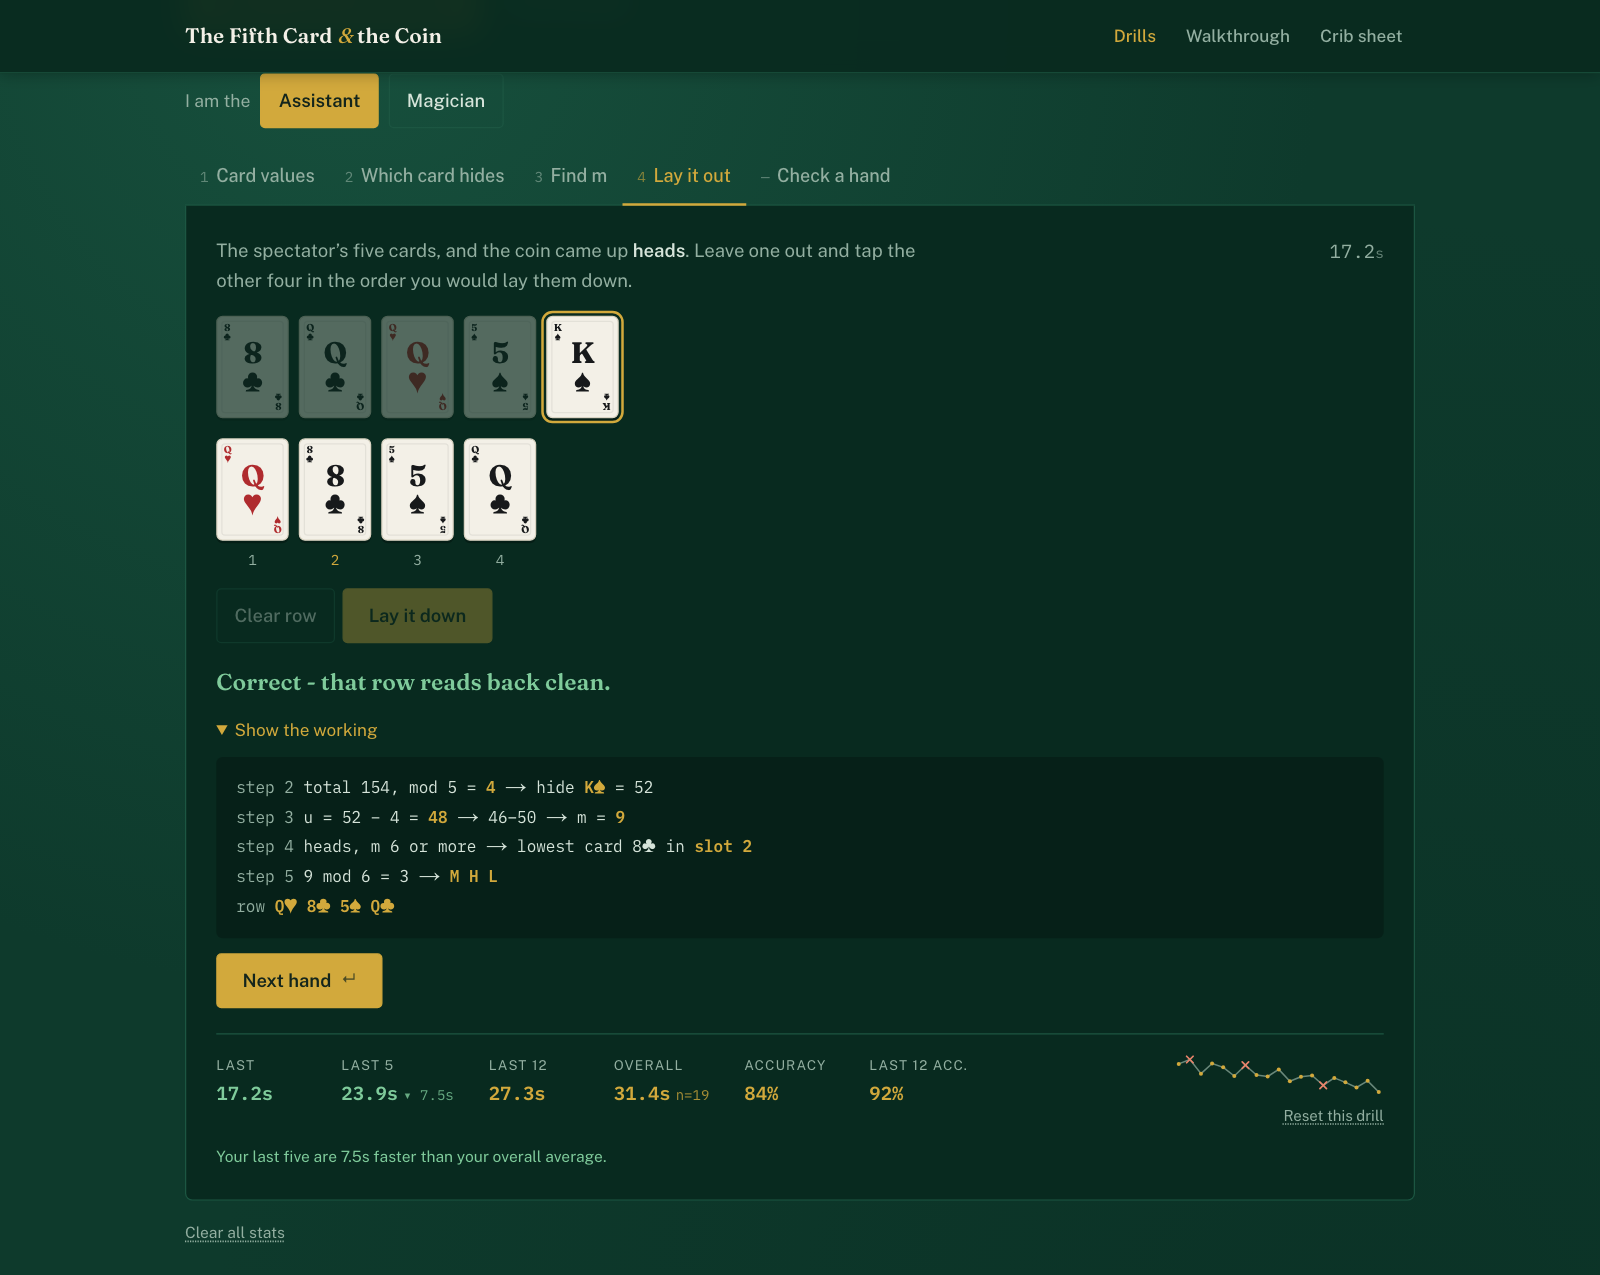
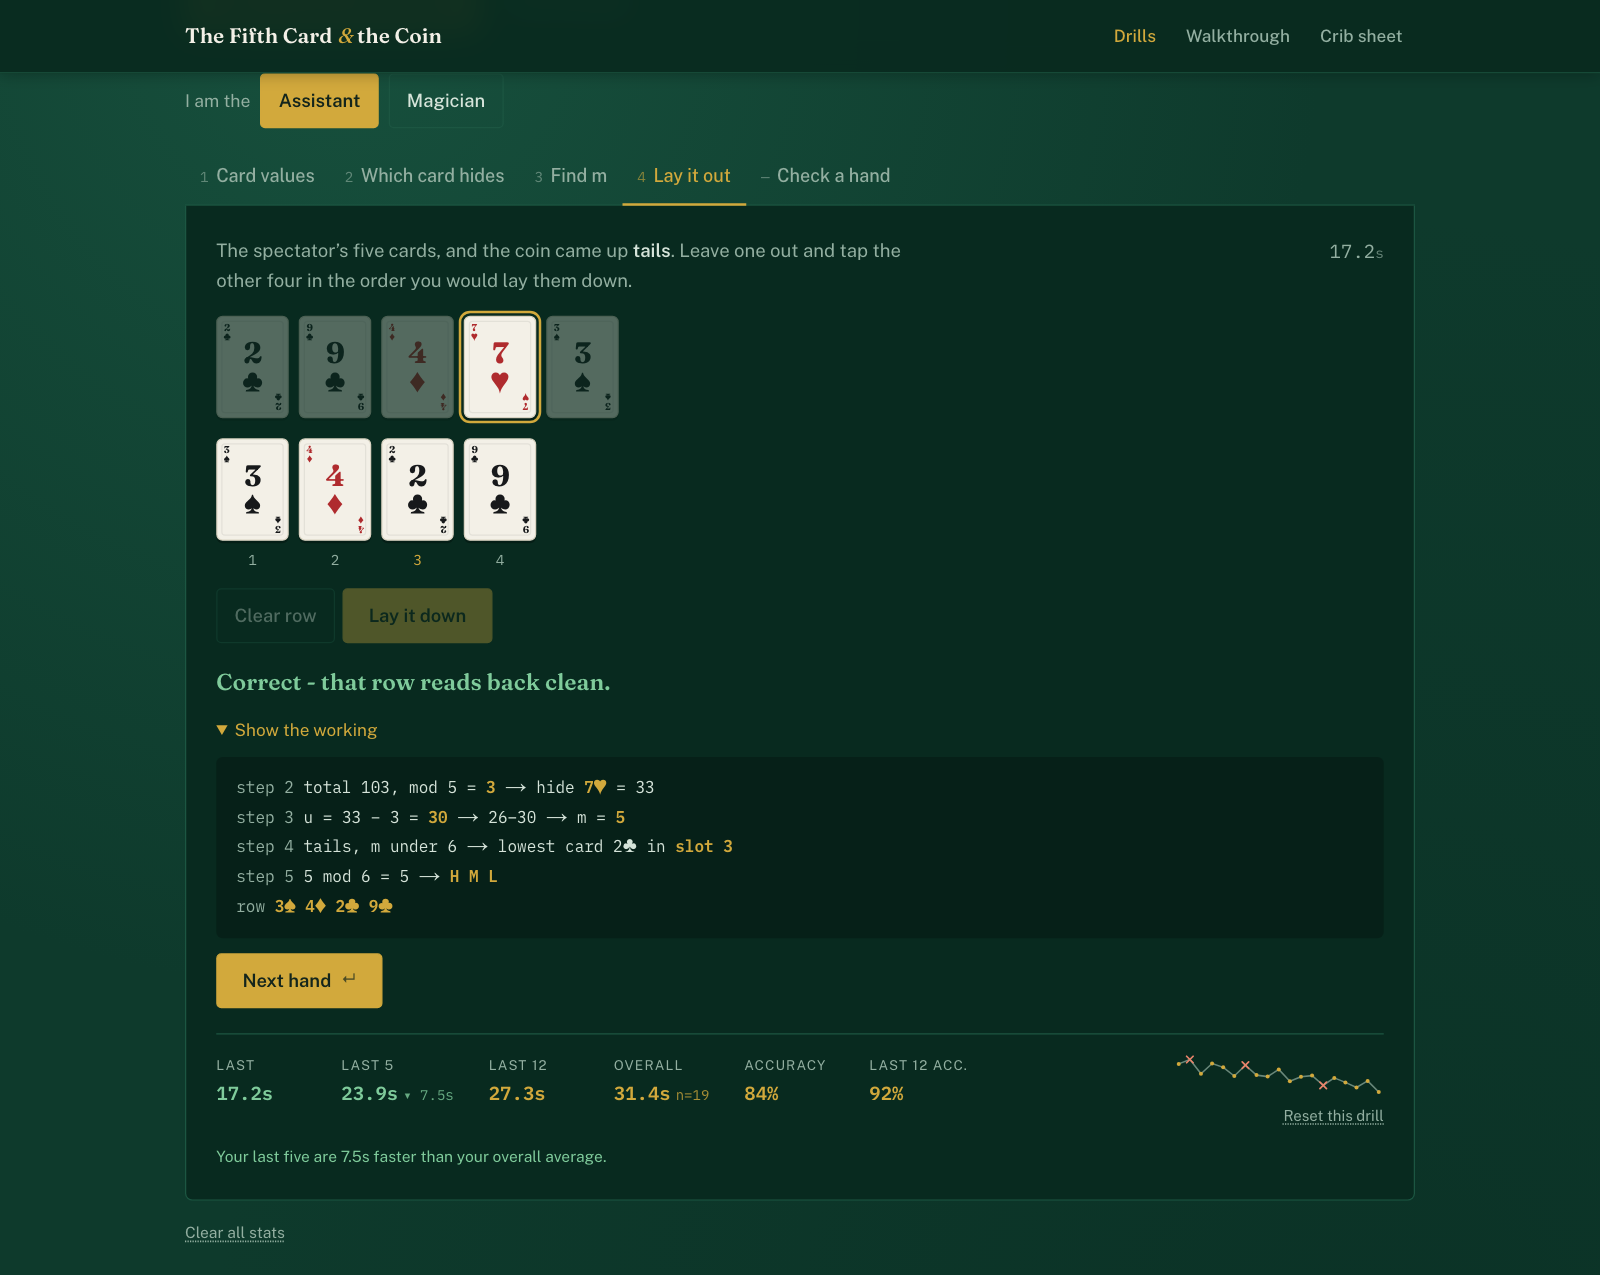
Stop one Enter both submitting a drill and advancing to the next hand
Enter reached the window handler and then, as the default action, clicked
whichever button had focus. Since submitting moves focus to "next hand", a
single press answered the question and dealt a new one, so the verdict and the
working were never seen. Key handlers now report whether they acted, and
useKeys suppresses the default when they did.

diff --git a/components/drills/useKeys.ts b/components/drills/useKeys.ts
@@ -5,8 +5,13 @@ import { useEffect, useRef } from 'react';
 /**
  * Number keys answer, Enter advances. Ignored while the user is typing into a
  * field, so the solver's card input still behaves normally.
+ *
+ * The handler returns true when it acted on the key, and the default action is
+ * then suppressed. That matters for Enter: without it, the same keypress both
+ * runs the handler and clicks whichever button has focus, which would submit
+ * and advance in one go and the working would never be seen.
  */
-export function useKeys(handler: (key: string) => void) {
+export function useKeys(handler: (key: string) => boolean | void) {
   const ref = useRef(handler);
 
   useEffect(() => {
@@ -18,7 +23,7 @@ export function useKeys(handler: (key: string) => void) {
       const t = e.target as HTMLElement | null;
       if (t && (t.tagName === 'INPUT' || t.tagName === 'TEXTAREA' || t.isContentEditable)) return;
       if (e.metaKey || e.ctrlKey || e.altKey) return;
-      ref.current(e.key);
+      if (ref.current(e.key) === true) e.preventDefault();
     }
     window.addEventListener('keydown', onKey);
     return () => window.removeEventListener('keydown', onKey);

diff --git a/components/drills/LayDrill.tsx b/components/drills/LayDrill.tsx
@@ -39,12 +39,25 @@ export function LayDrill() {
   }
 
   useKeys((key) => {
-    if (closed && key === 'Enter') next();
-    else if (!closed && key === 'Enter' && full) submit();
-    else if (!closed && /^[1-5]$/.test(key)) {
+    if (closed) {
+      if (key !== 'Enter') return false;
+      next();
+      return true;
+    }
+    if (key === 'Enter' && full) {
+      submit();
+      return true;
+    }
+    if (/^[1-5]$/.test(key)) {
       const c = hand[Number(key) - 1];
       if (c != null && !placed.includes(c) && placed.length < 4) setPlaced([...placed, c]);
-    } else if (!closed && (key === 'Backspace' || key === 'Delete')) setPlaced(placed.slice(0, -1));
+      return true;
+    }
+    if (key === 'Backspace' || key === 'Delete') {
+      setPlaced(placed.slice(0, -1));
+      return true;
+    }
+    return false;
   });
 
   return (

diff --git a/components/drills/ReadRowDrill.tsx b/components/drills/ReadRowDrill.tsx
@@ -39,12 +39,28 @@ export function ReadRowDrill() {
   }
 
   useKeys((key) => {
-    if (closed && key === 'Enter') return next();
-    if (closed) return;
-    if (/^[0-9]$/.test(key)) setM(Number(key));
-    else if (key === 'h' || key === 'H') setCoin('H');
-    else if (key === 't' || key === 'T') setCoin('T');
-    else if (key === 'Enter' && ready) submit();
+    if (closed) {
+      if (key !== 'Enter') return false;
+      next();
+      return true;
+    }
+    if (/^[0-9]$/.test(key)) {
+      setM(Number(key));
+      return true;
+    }
+    if (key === 'h' || key === 'H') {
+      setCoin('H');
+      return true;
+    }
+    if (key === 't' || key === 'T') {
+      setCoin('T');
+      return true;
+    }
+    if (key === 'Enter' && ready) {
+      submit();
+      return true;
+    }
+    return false;
   });
 
   return (

diff --git a/components/drills/FindCardDrill.tsx b/components/drills/FindCardDrill.tsx
@@ -35,8 +35,16 @@ export function FindCardDrill() {
   }
 
   useKeys((key) => {
-    if (closed && key === 'Enter') next();
-    else if (!closed && key === 'Enter' && value !== null) submit();
+    if (key !== 'Enter') return false;
+    if (closed) {
+      next();
+      return true;
+    }
+    if (value !== null) {
+      submit();
+      return true;
+    }
+    return false;
   });
 
   const cf = cardFrom(e.shown, e.m);

diff --git a/components/drills/ValuesDrill.tsx b/components/drills/ValuesDrill.tsx
@@ -29,8 +29,15 @@ export function ValuesDrill({ role }: { role: Role }) {
   }
 
   useKeys((key) => {
-    if (!closed && /^[0-4]$/.test(key)) submit(Number(key));
-    else if (closed && key === 'Enter') next();
+    if (!closed && /^[0-4]$/.test(key)) {
+      submit(Number(key));
+      return true;
+    }
+    if (closed && key === 'Enter') {
+      next();
+      return true;
+    }
+    return false;
   });
 
   return (

diff --git a/components/drills/CallItDrill.tsx b/components/drills/CallItDrill.tsx
@@ -40,9 +40,16 @@ export function CallItDrill() {
   }
 
   useKeys((key) => {
-    if (closed && key === 'Enter') return next();
-    if (closed) return;
-    if (key === 'Enter' && ready) submit();
+    if (key !== 'Enter') return false;
+    if (closed) {
+      next();
+      return true;
+    }
+    if (ready) {
+      submit();
+      return true;
+    }
+    return false;
   });
 
   const cf = cardFrom(e.shown, e.m);

diff --git a/components/drills/HideDrill.tsx b/components/drills/HideDrill.tsx
@@ -29,8 +29,15 @@ export function HideDrill() {
   }
 
   useKeys((key) => {
-    if (!closed && /^[1-5]$/.test(key)) submit(Number(key) - 1);
-    else if (closed && key === 'Enter') next();
+    if (!closed && /^[1-5]$/.test(key)) {
+      submit(Number(key) - 1);
+      return true;
+    }
+    if (closed && key === 'Enter') {
+      next();
+      return true;
+    }
+    return false;
   });
 
   return (

diff --git a/components/drills/FindMDrill.tsx b/components/drills/FindMDrill.tsx
@@ -27,8 +27,15 @@ export function FindMDrill() {
   }
 
   useKeys((key) => {
-    if (!closed && /^[0-9]$/.test(key)) submit(Number(key));
-    else if (closed && key === 'Enter') next();
+    if (!closed && /^[0-9]$/.test(key)) {
+      submit(Number(key));
+      return true;
+    }
+    if (closed && key === 'Enter') {
+      next();
+      return true;
+    }
+    return false;
   });
 
   return (
